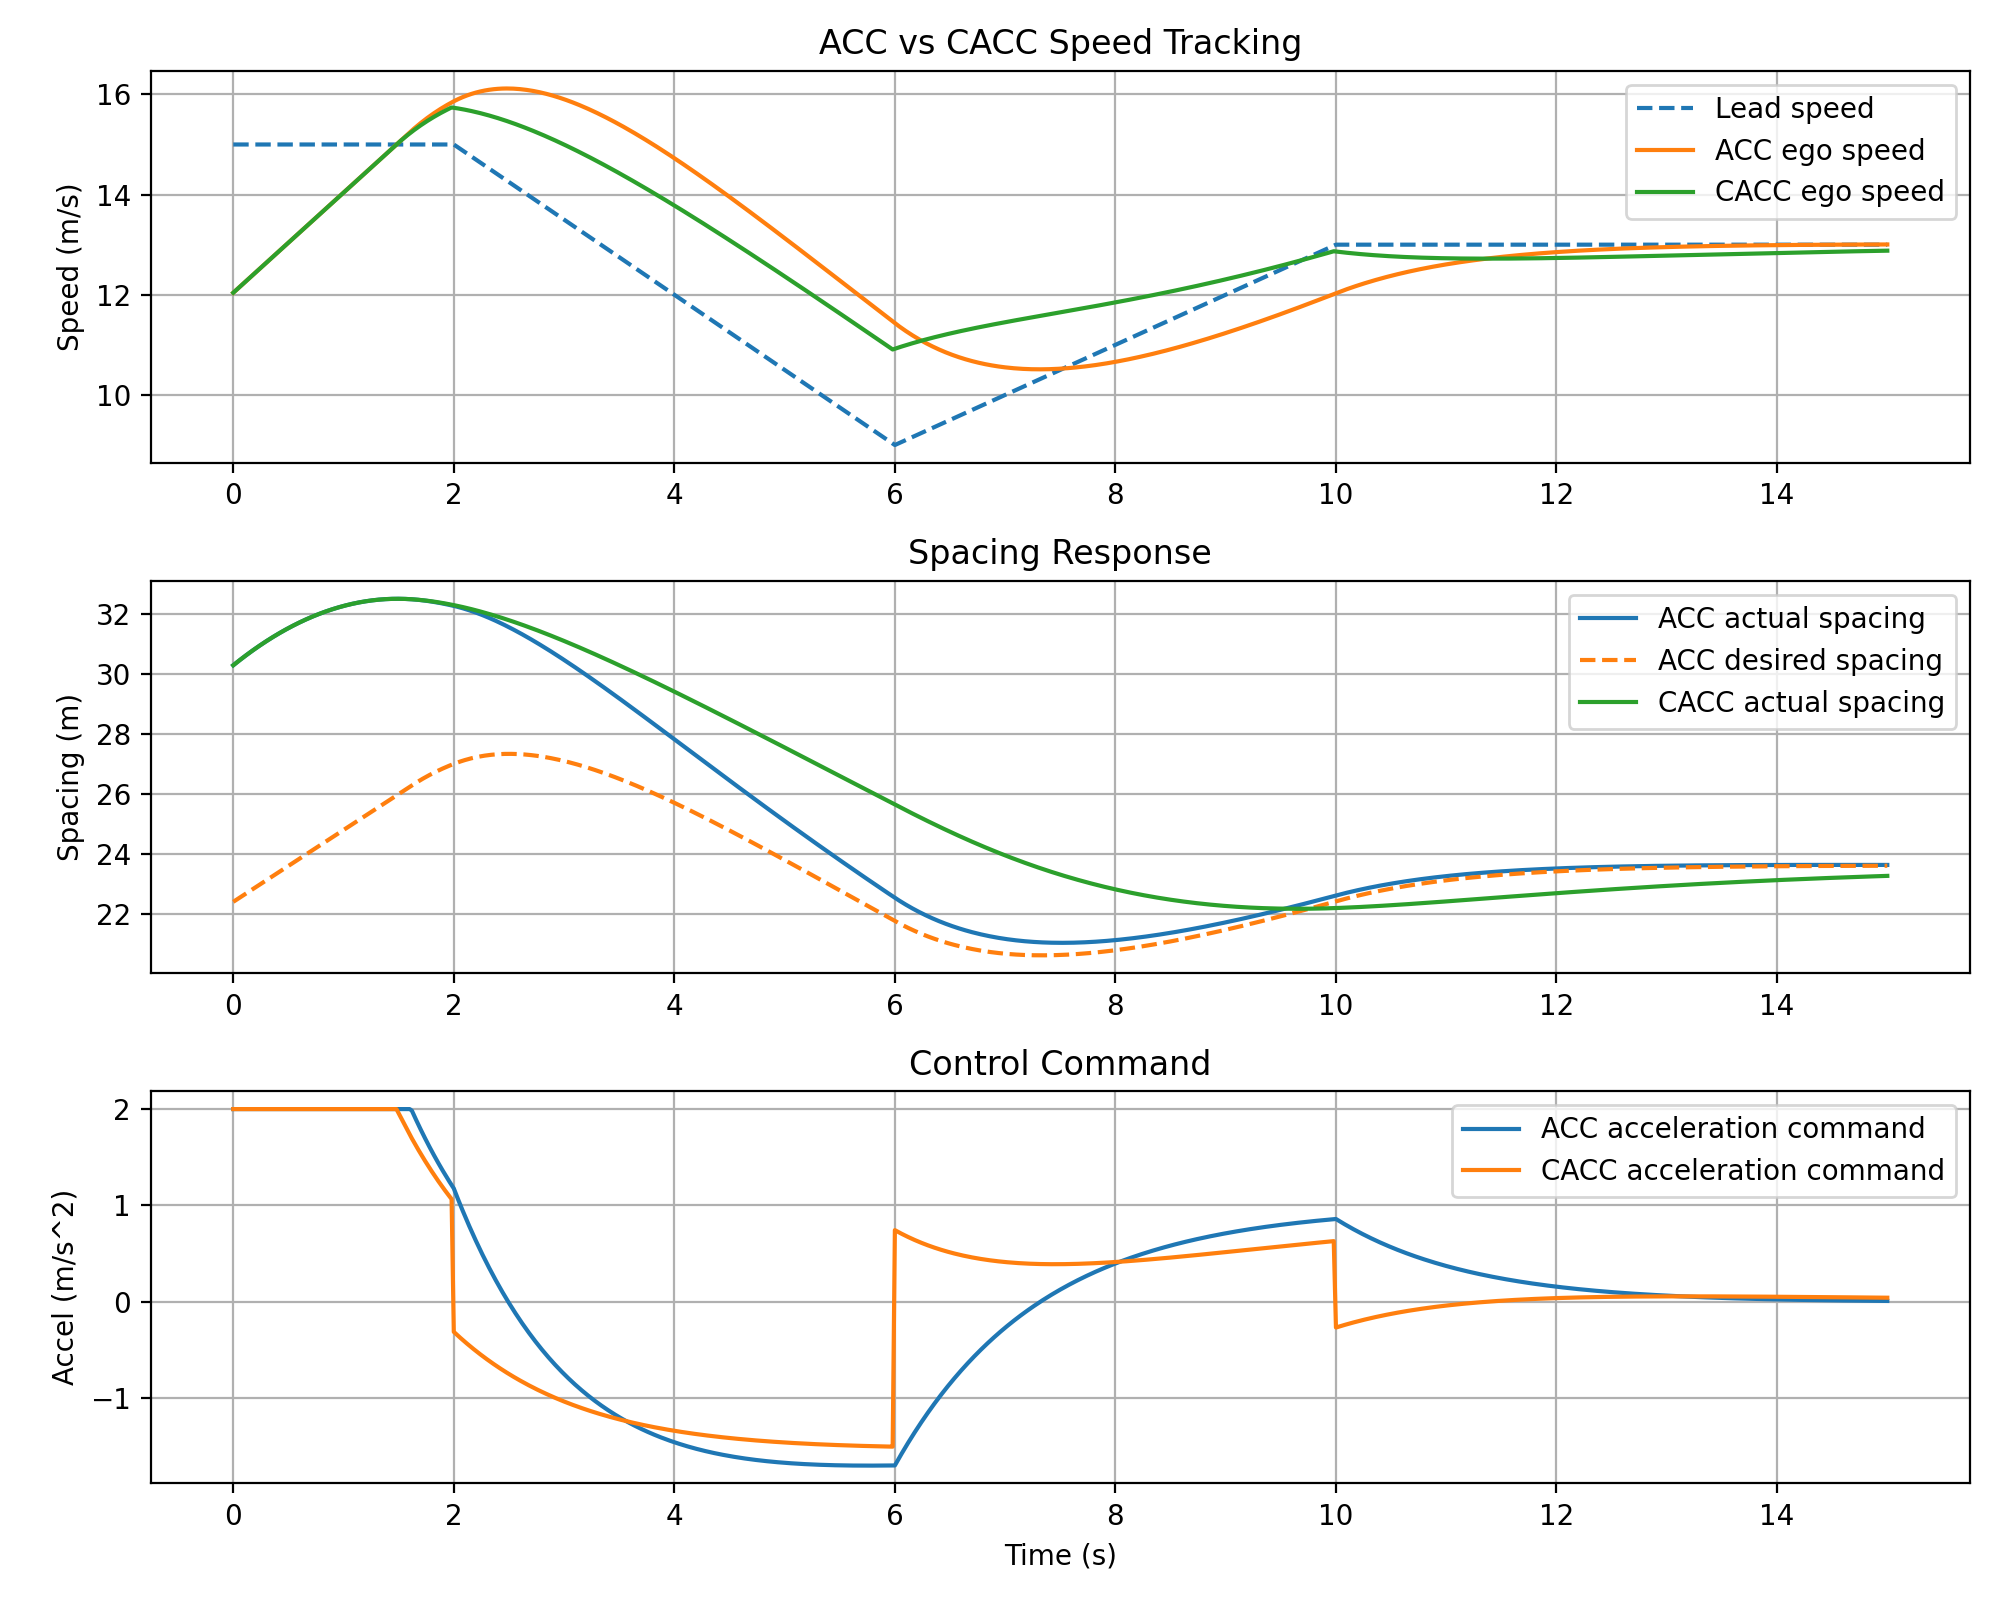
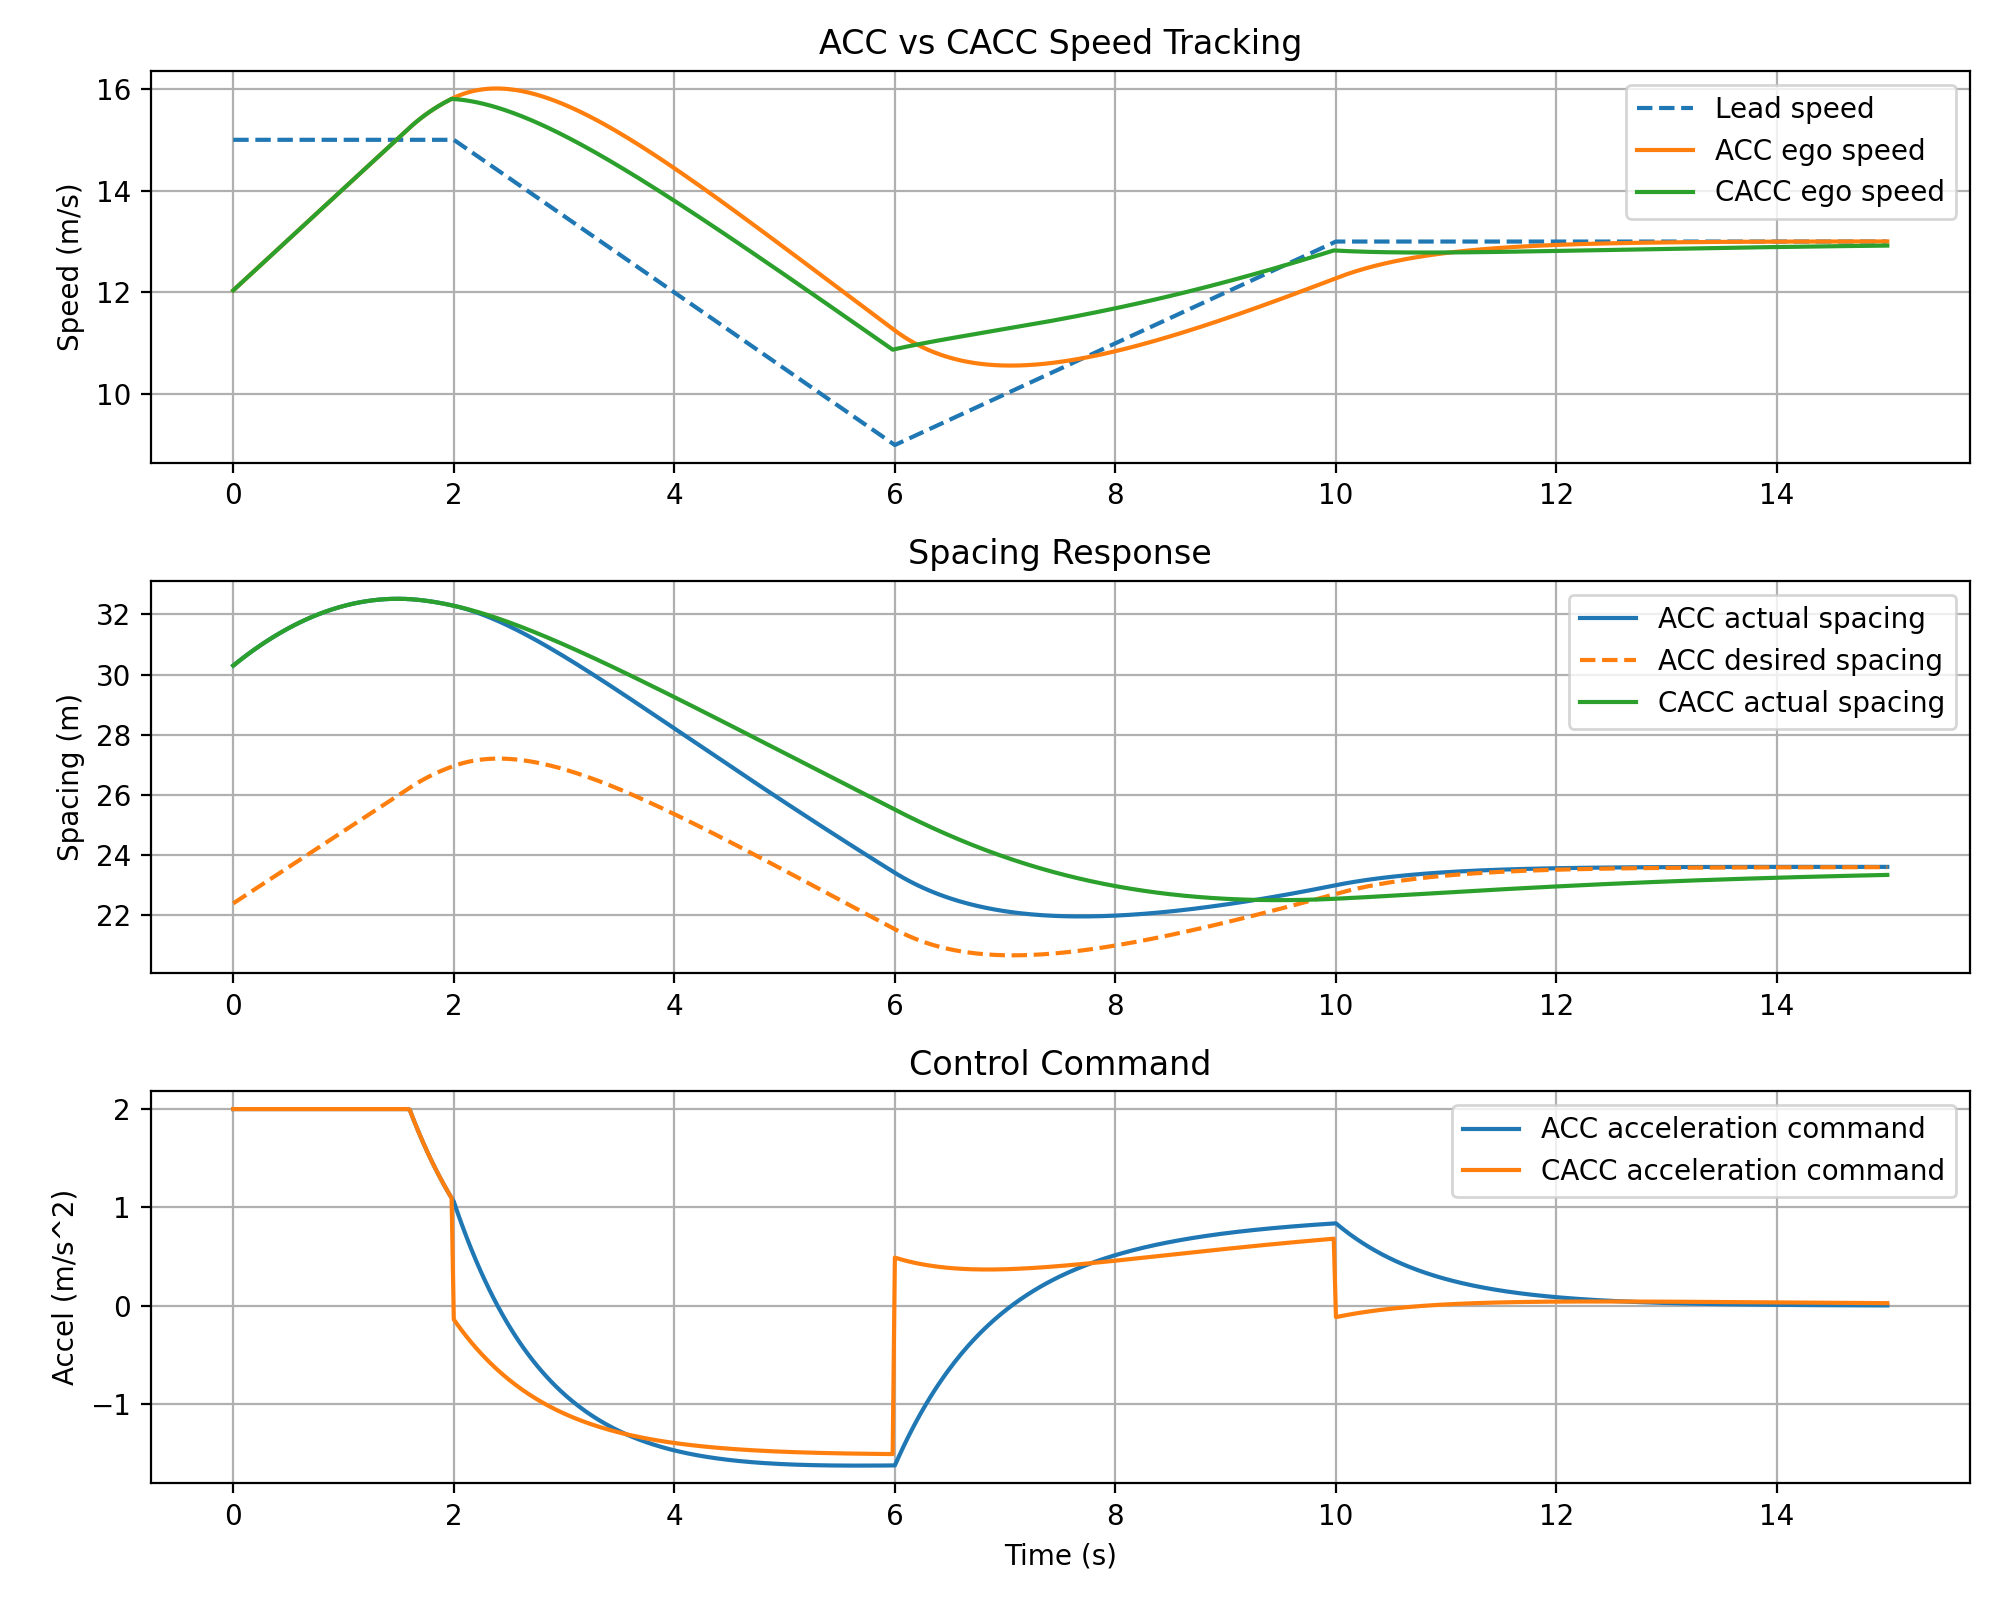
add Carla implement demo

diff --git a/pnc_basics/carla_minimal_control.py b/pnc_basics/carla_minimal_control.py
@@ -1,0 +1,67 @@
+import carla
+import time
+
+def main():
+    import carla
+import time
+
+
+def main():
+    # 1. Connect to CARLA server
+    client = carla.Client("172.24.160.1", 2000)
+    client.set_timeout(5.0)
+
+    world = client.get_world()
+    blueprint_library = world.get_blueprint_library()
+
+    # 2. Choose a vehicle blueprint
+    vehicle_bp = blueprint_library.filter("vehicle.tesla.model3")[0]
+
+    # 3. Choose a spawn point
+    spawn_points = world.get_map().get_spawn_points()
+    spawn_point = spawn_points[0]
+
+    # 4. Spawn vehicle
+    vehicle = world.try_spawn_actor(vehicle_bp, spawn_point)
+    if vehicle is None:
+        print("Failed to spawn vehicle.")
+        return
+
+    print("Vehicle spawned:", vehicle)
+    print("Spawn point:", spawn_point)
+    print("Vehicle location:", vehicle.get_location())
+
+    # 5. Move spectator above the vehicle
+    spectator = world.get_spectator()
+
+    try:
+        # 5. Apply simple control for a few seconds
+        for _ in range(900):
+            # control = carla.VehicleControl(
+            #     throttle=0.4,
+            #     steer=0.0,
+            #     brake=0.0
+            # )
+            vehicle.set_autopilot(True)
+            
+            vehicle_transform = vehicle.get_transform()
+            location = vehicle_transform.location
+
+            spectator.set_transform(
+                carla.Transform(
+                    carla.Location(x=location.x, y=location.y, z=50.0),
+                    carla.Rotation(pitch=-90.0)
+                )
+            )
+
+            time.sleep(0.05)
+
+        print("Finished simple control test.")
+
+    finally:
+        print("Destroying vehicle...")
+        vehicle.destroy()
+
+
+if __name__ == "__main__":
+    main()

diff --git a/pnc_basics/carla_pure_pursuit.py b/pnc_basics/carla_pure_pursuit.py
@@ -1,0 +1,52 @@
+import carla
+import math
+import time
+import numpy as np
+import matplotlib.pyplot as plt
+
+def get_speed(vehicle):
+    """
+    Compute vehicle speed magniture in m/s
+    """
+
+    v = vehicle.get_velocity()
+    return math.sqrt(v.x**2+v.y**2+v.z**2)
+
+def build_route(carla_map, start_location, step_distance=2.0, num_plots = 150):
+    """
+    Build a simple waypoint route by repeatedly calling waypoint.next()
+    """
+    route_x = []
+    route_y = []
+
+    waypiont = carla_map.get_waypoint(start_location)
+
+    for _ in range(num_points):
+        route_x.append(waypoint.transform.location.x)
+        route_y.append(waypoint.transform.location.y)
+
+        next_wps = waypoint.next(step_distance)
+        if len(next_wps) == 0:
+            break
+        
+        # For the first demo, just choose the first continuation
+        waypoint = next_wps[0]
+    
+    return np.array(route_x), np.array(route_y)
+
+def calc_target_index(x, y, route_x, route_y, lookahead_distance):
+    """
+    Find the target point index on the route for the pure pursuit.
+    """
+    dx = route_x -x
+    dy = route_y -y
+    distances = np.hypot(dx,dy)
+
+    nearest_index = int(np.argmin(distances))
+    
+    target_index = nearest_index
+    while target_index < len(route_x) - 1 and distances[target_index] < lookahead_distance:
+        target_index += 1
+    
+    return target_index
+

diff --git a/pnc_basics/acc_cacc_controller.py b/pnc_basics/acc_cacc_controller.py
@@ -216,19 +216,20 @@ def plot_results(acc_result, cacc_result):
     plt.show()
 
 def main():
+
     acc = ACCController(
-        kp = 0.35,
-        kv = 0.8,
-        d0 = 8.0,
+        kp=0.35,
+        kv=1.0,
+        d0=8.0,
         h=1.2,
     )
 
     cacc = CACCController(
-        kp=0.30,
-        kv=0.8,
-        ka=0.9,
+        kp=0.35,
+        kv=1.0,
+        ka=0.8,
         d0=8.0,
-        h=1.2,       
+        h=1.2,
     )
 
     acc_result = simulate(acc, controller_type="ACC")
